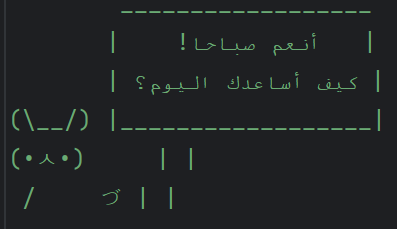
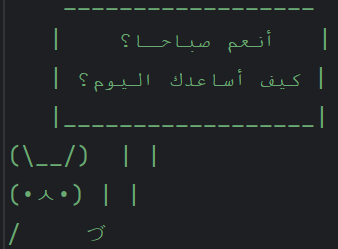
updated ascii art

diff --git a/config.py b/config.py
@@ -114,3 +114,17 @@ giga_bunny = '''.      (\__/)
 
 
 print(menu[0])
+
+
+
+'''
+    __________________
+   |   أنعم صباحـا؟    |
+   | كيف أساعدك اليوم؟ |
+   |__________________|
+(\__/)  | |
+(•ㅅ•) | |
+/  　 づ 
+
+
+'''
